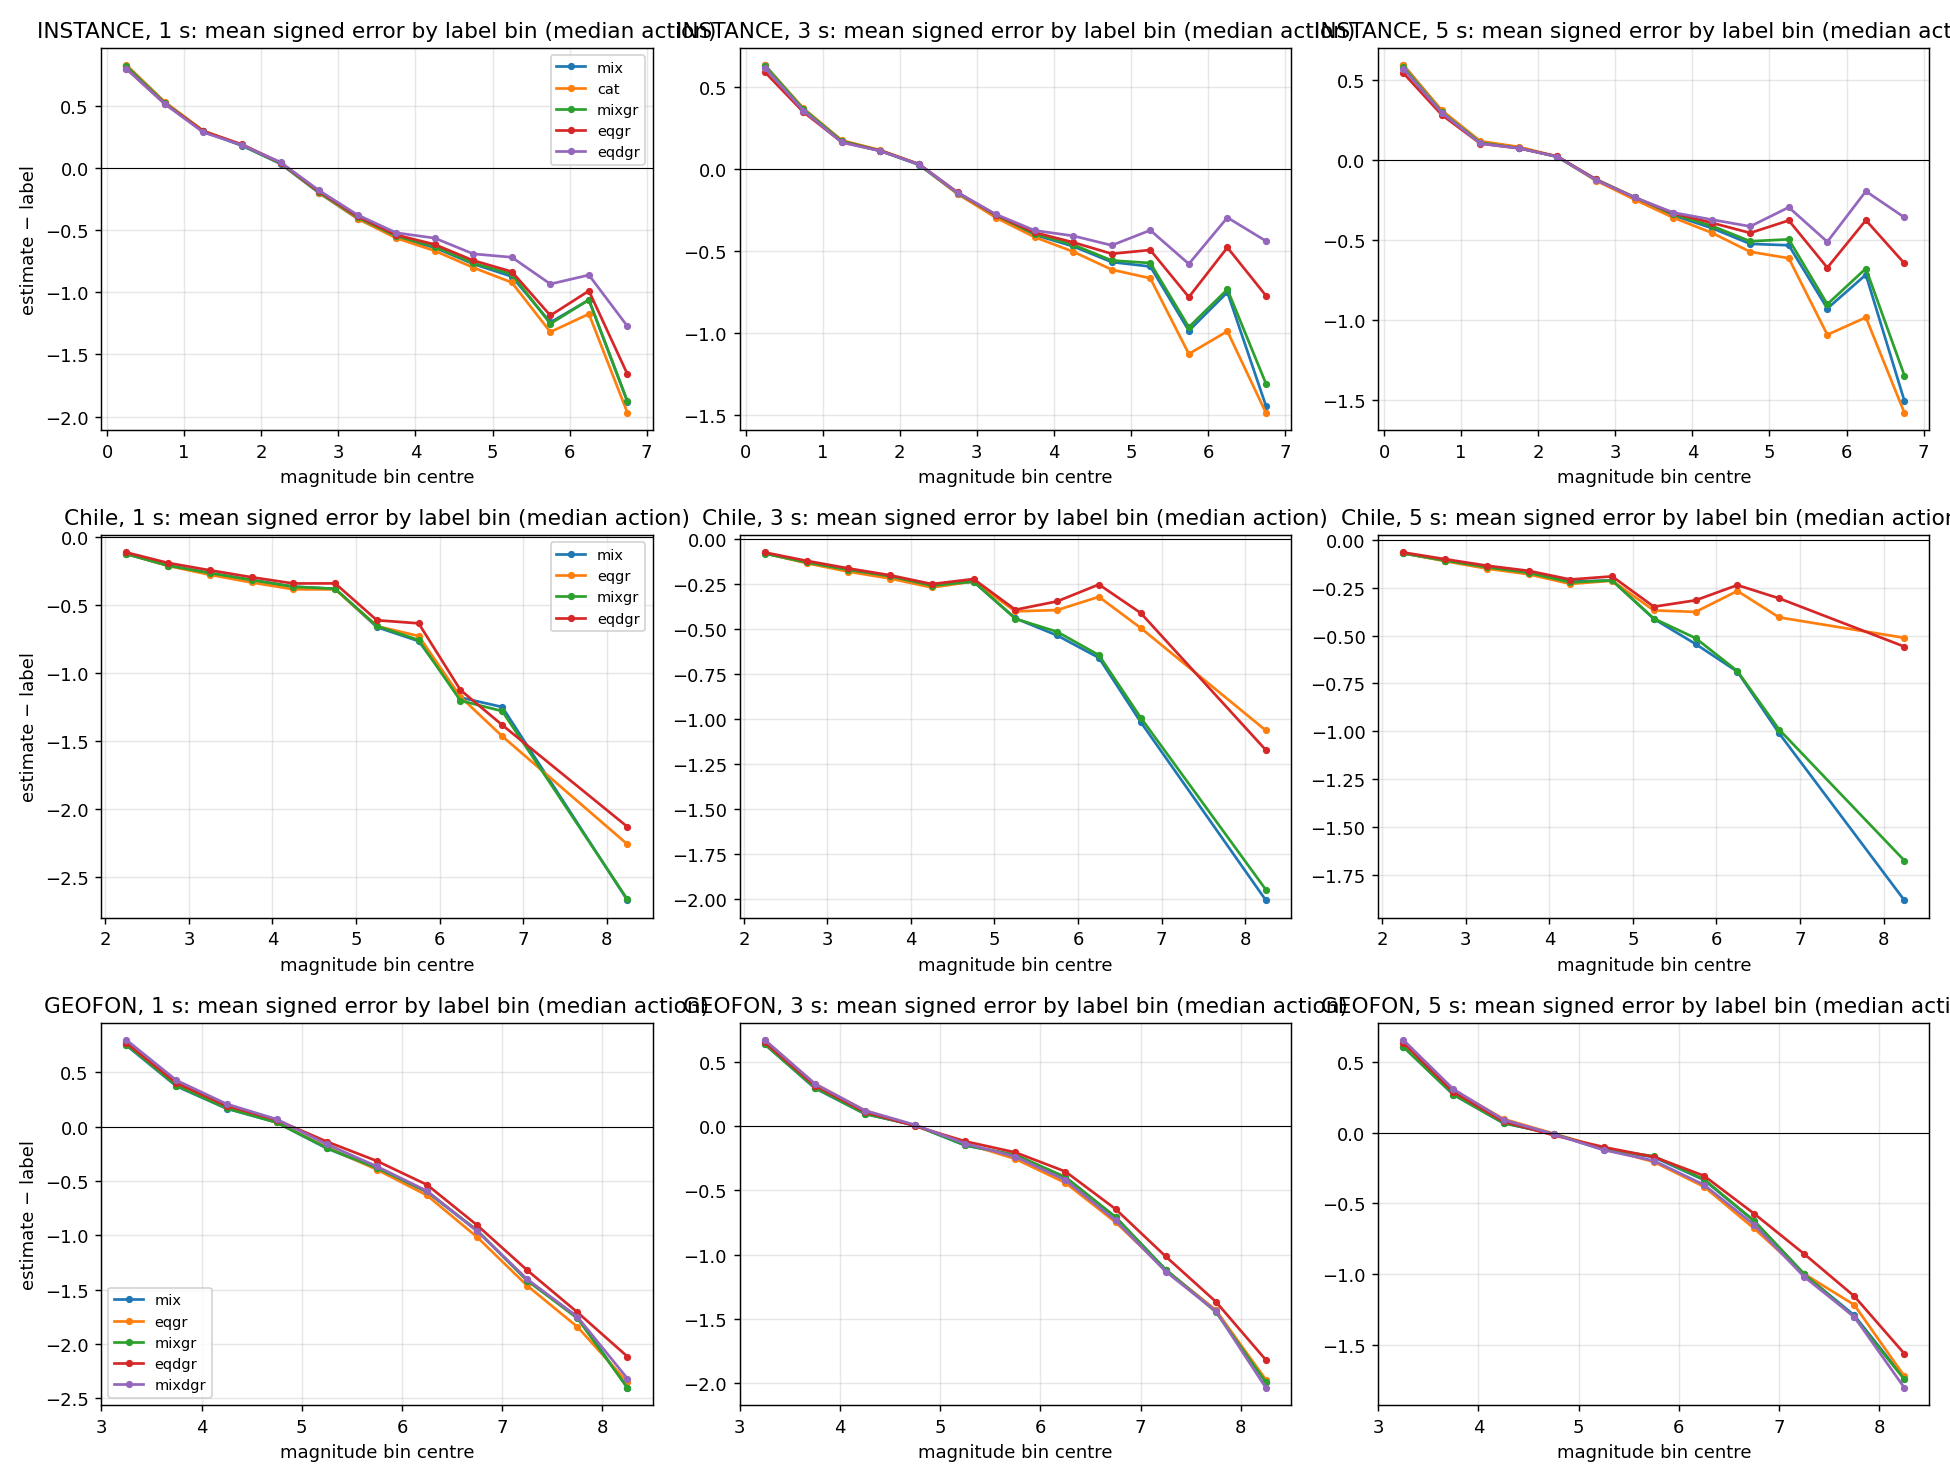
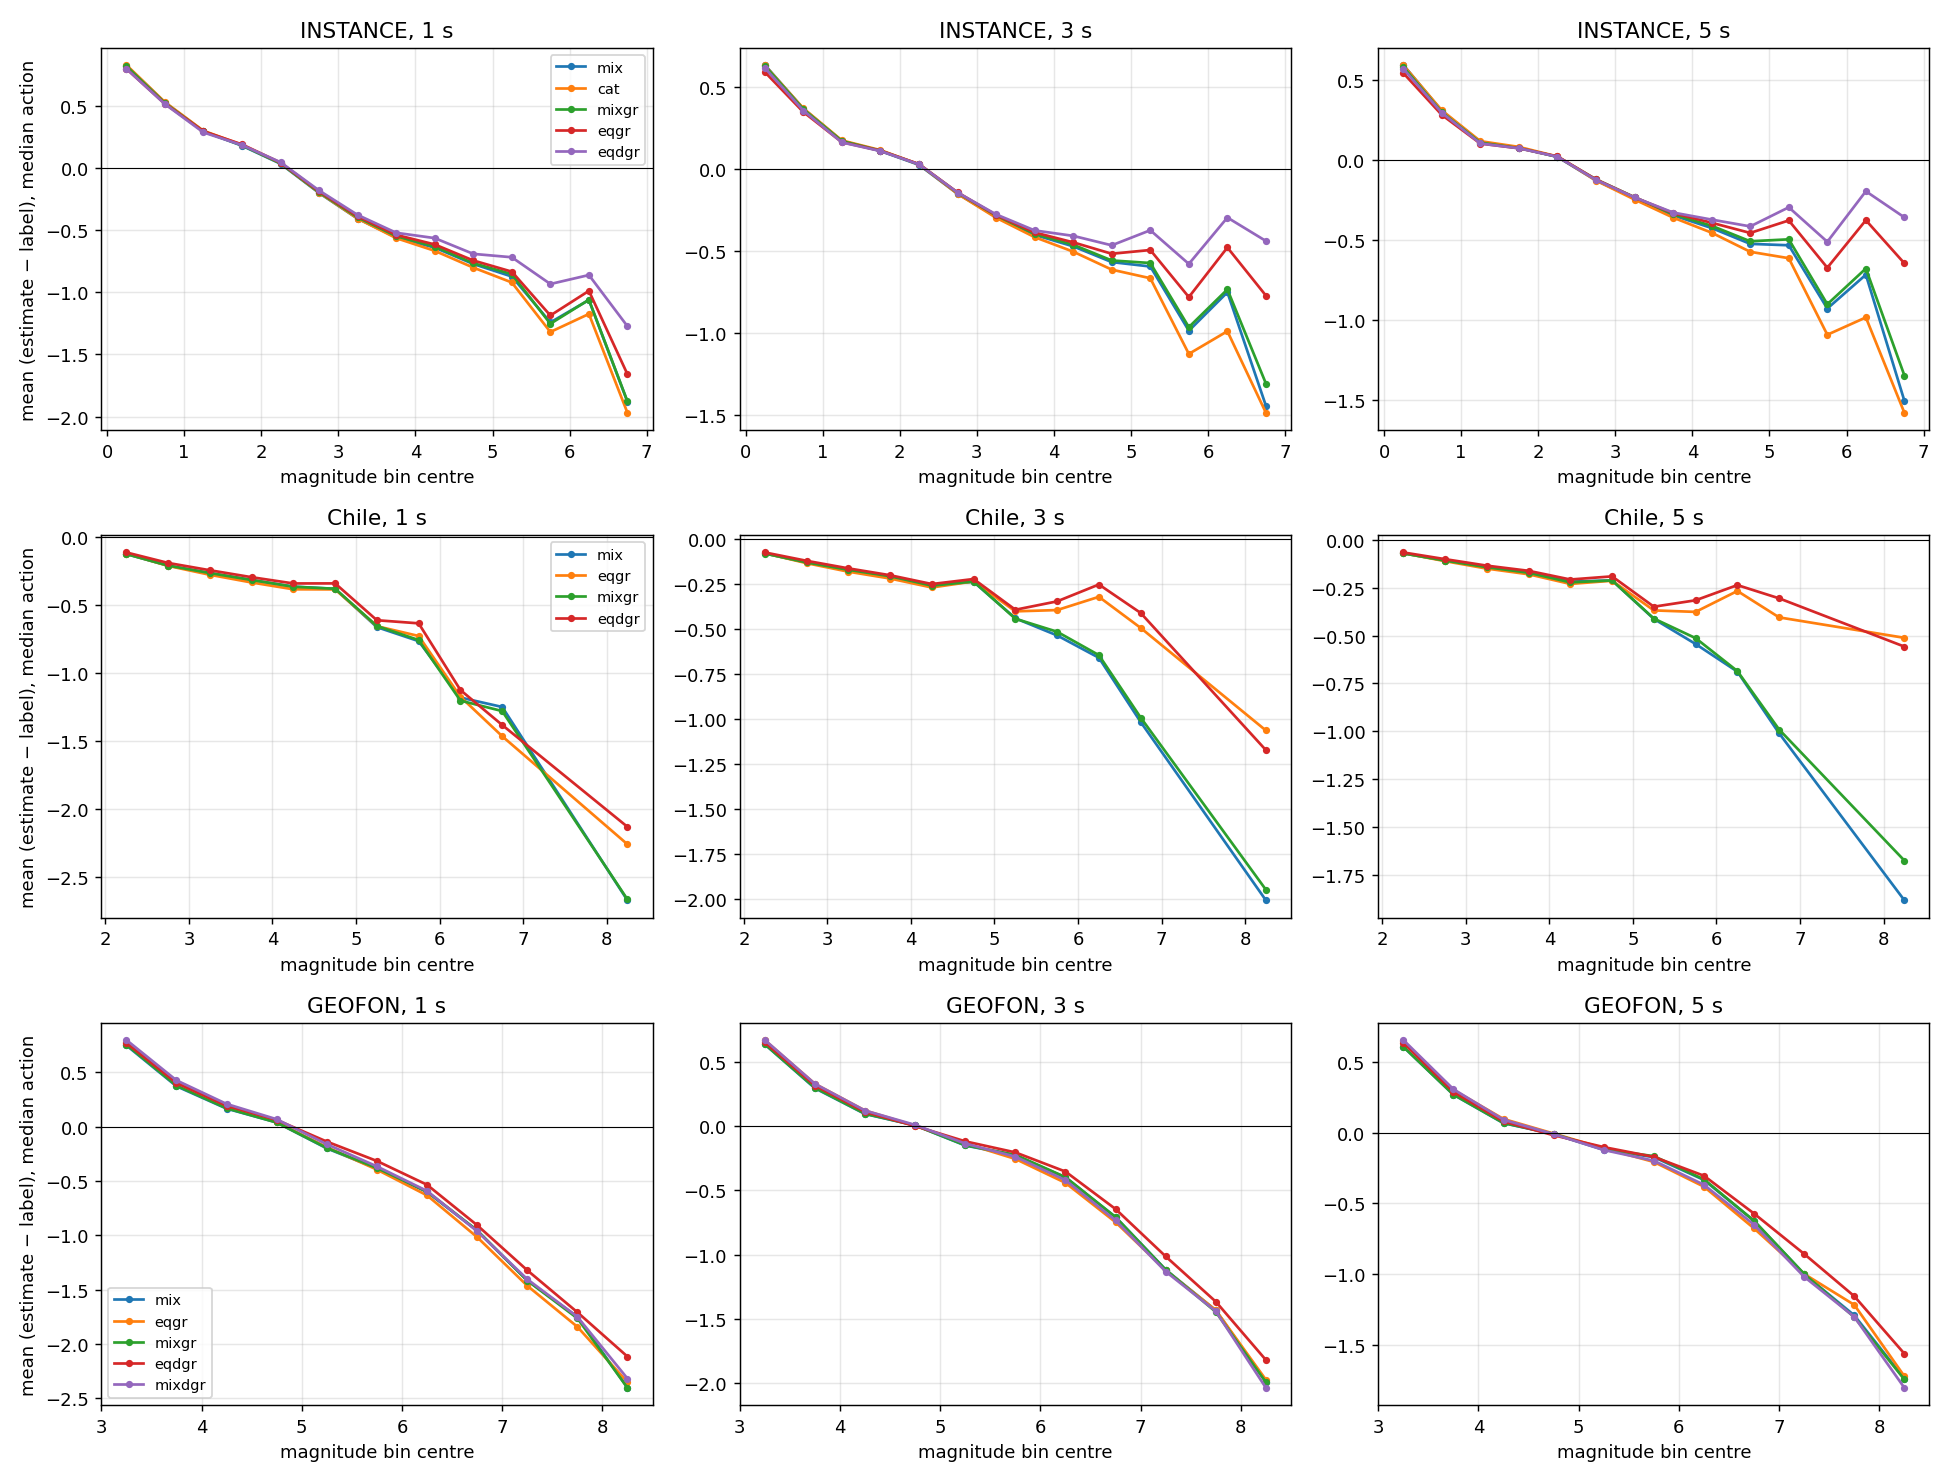
Bias by magnitude bin on all three catalogues (figure, table, findings, README, paper)

diff --git a/tailrisk/bias_by_magnitude.py b/tailrisk/bias_by_magnitude.py
@@ -58,11 +58,11 @@ def main():
                     if x['bias_median'] is not None and x['n'] >= 5:
                         rows.append({'dataset': label, 'deadline': d, 'arm': b, 'bin_lo': x['lo'], 'n': x['n'], 'bias': x['bias_median']})
             ax.axhline(0, color='k', lw=.6)
-            ax.set_title(f'{label}, {d[0]} s: mean signed error by label bin (median action)')
+            ax.set_title(f'{label}, {d[0]} s')
             ax.set_xlabel('magnitude bin centre')
             ax.grid(alpha=.3)
             if d_i == 0:
-                ax.set_ylabel('estimate − label')
+                ax.set_ylabel('mean (estimate − label), median action')
         axes[r_i, 0].legend(fontsize=8)
     fig.tight_layout()
     Path(args.out).parent.mkdir(parents=True, exist_ok=True)

diff --git a/tailrisk/FINDINGS.md b/tailrisk/FINDINGS.md
@@ -120,6 +120,31 @@ Floor 10⁻⁶: .298 / .176, .229 / .172, .488 / .177. The level of the fused ta
 distance-marginalized head's broad posteriors make it floor-sensitive (.19 to .49), which is
 why its own factor, which needs no such choice, is the better rule for it.
 
+## 2026-10-21 10:50 UTC — Bias by magnitude bin on all three catalogues: the structural heads cut the large-event under-estimation by half to two thirds on INSTANCE and Chile, by a tenth on GEOFON
+
+Mean signed error of the median action per 0.5-unit label bin, three-seed ensembles
+(`bias_by_magnitude.py`; figure `figures/bias_by_magnitude_all.png`; full table
+`results/bias_by_magnitude.md`, 509 rows). Records, not events, so sequences with many stations
+dominate the top bins (INSTANCE [6.5, 7.0) is the 2016 Norcia M6.5, 75 records).
+
+| catalogue, bin (records) | mixture | plain equivariant | distance-marginalized |
+|---|---|---|---|
+| INSTANCE [6.0, 6.5) (89), 5 s | −.72 | −.38 | **−.20** |
+| INSTANCE [6.5, 7.0) (75), 5 s | −1.50 | −.65 | **−.36** |
+| INSTANCE [6.5, 7.0), 1 s | −1.88 | −1.66 | **−1.27** |
+| Chile [6.5, 7.0) (31), 5 s | −1.01 | −.41 | **−.31** |
+| Chile [8.0, 8.5) (6), 5 s | −1.88 | **−.51** | −.56 |
+| Chile [8.0, 8.5), 1 s | −2.67 | −2.26 | **−2.13** |
+| GEOFON [7.5, 8.0) (113), 5 s | −1.29 | −1.22 | **−1.16** |
+| GEOFON [8.0, 8.5) (38), 5 s | −1.74 | −1.72 | **−1.56** |
+
+The small-magnitude bins are identical across heads (the prior-dominated regime), the curves
+separate above M5 on INSTANCE and Chile exactly where the amplitude-response diagnostic
+showed the free mixture saturating, and on GEOFON every head saturates with only the
+distance-marginalized one slightly less so. At 1 s all heads remain strongly biased on the
+largest events (the first second does not carry the information), which is the honest
+reading of the 1 s columns throughout this study.
+
 ## 2026-10-21 10:15 UTC — Chile held-station test, three seeds: bulk gain on unseen stations holds in every seed; the M≥6 gain at 5 s is negative in all three (two with CIs excluding zero) and the ensemble's interval just includes zero; nothing at 1 s
 
 Seeds 2 and 3 of `eqdgr_nll_hs` and `mix_nll_hs` on Chile (same 7 of 22 stations withheld);

diff --git a/tailrisk/README.md b/tailrisk/README.md
@@ -169,6 +169,13 @@ portable across the three catalogues (its one recorded cost: more 1 s false alar
 | GEOFON, far-regional (M≥7, 50 events) | **+.024 / +.017 / +.016** | **−.09 / −.09 / −.12** |
 | Northern Chile, regional (M≥6, 12 events) | **−.002 / −.004 / −.006** | −.01 / **−.28 / −.39** |
 
+**Bias by magnitude on all three catalogues** ([figures/bias_by_magnitude_all.png](figures/bias_by_magnitude_all.png),
+[results/bias_by_magnitude.md](results/bias_by_magnitude.md)): at 5 s the mean under-estimation of
+M6–7 records falls from −.72 / −1.50 (mixture, INSTANCE bins [6, 6.5) / [6.5, 7)) to −.20 / −.36
+with the distance-marginalized head, and from −1.01 to −.31 on Chile's [6.5, 7) bin; on GEOFON all
+heads saturate (−1.74 vs −1.56 at M8+). At 1 s every head stays strongly biased on the largest
+events.
+
 **Multi-station fusion (21 Oct).** Combining the stations of one event exposes a failure mode
 of free posteriors: the naive product Π_i p(m|x_i) counts the Gutenberg–Richter prior once per
 station, so on all three catalogues the fused M≥5 / M≥6 / M≥7 estimate of the free mixture is

diff --git a/tailrisk/PAPER.md b/tailrisk/PAPER.md
@@ -211,6 +211,11 @@ while eqgr sits near the diagonal; both are otherwise well calibrated (Brier rel
 terms ≤ 4·10⁻⁵), and eqgr's lower Brier scores for P(M≥4) and P(M≥5) at 3 and 5 s come from
 higher resolution.
 
+The same picture per label bin (three-seed ensembles, median action, 5 s): the mean signed
+error of M[6.5, 7) records is −1.50 for the mixture, −.65 for the plain head and −.36 for the
+distance-marginalized head on INSTANCE, −1.01 / −.41 / −.31 on Chile, and −1.29 / −1.22 / −1.16
+on GEOFON's M[7.5, 8) bin; the bins below M5 coincide across heads (`results/bias_by_magnitude.md`).
+
 ### 5.4 Ablations
 
 Three seeds each, sign tests over 45 seed×fold×deadline cells. The prior factor alone
